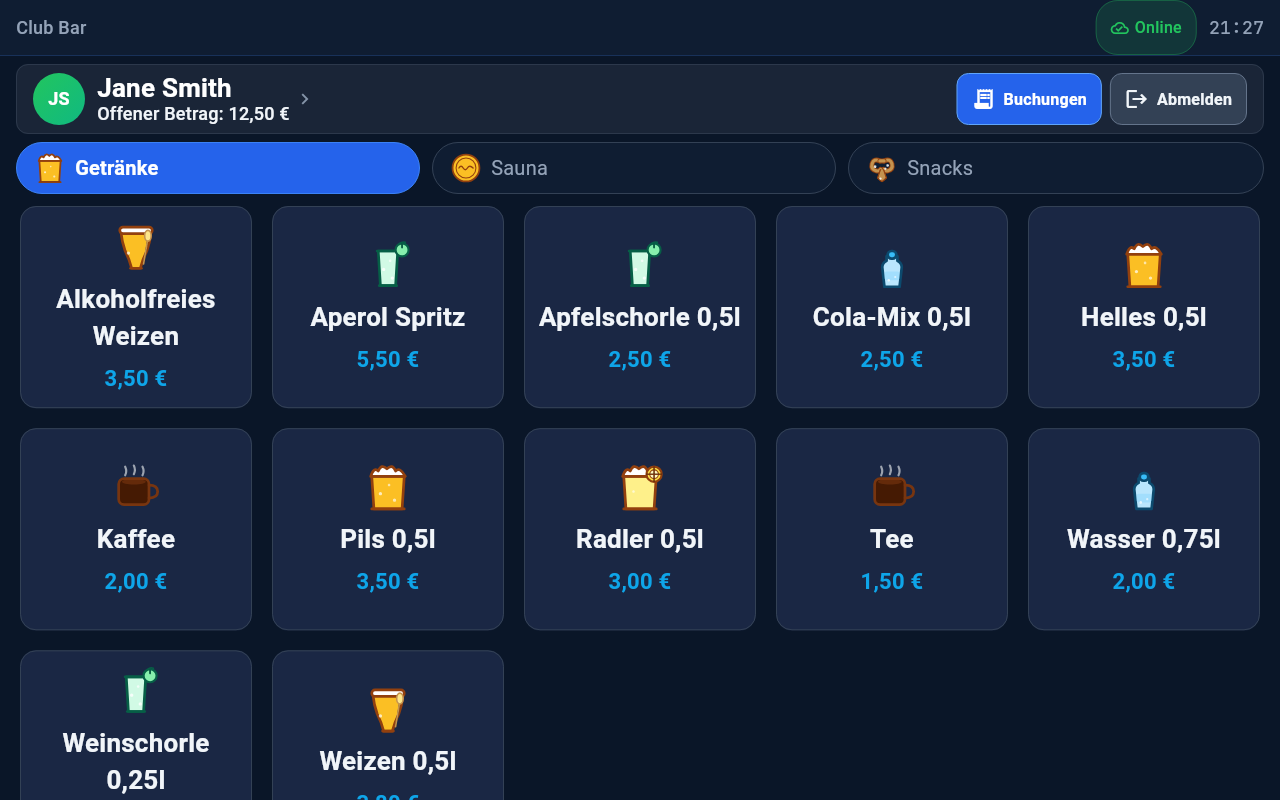
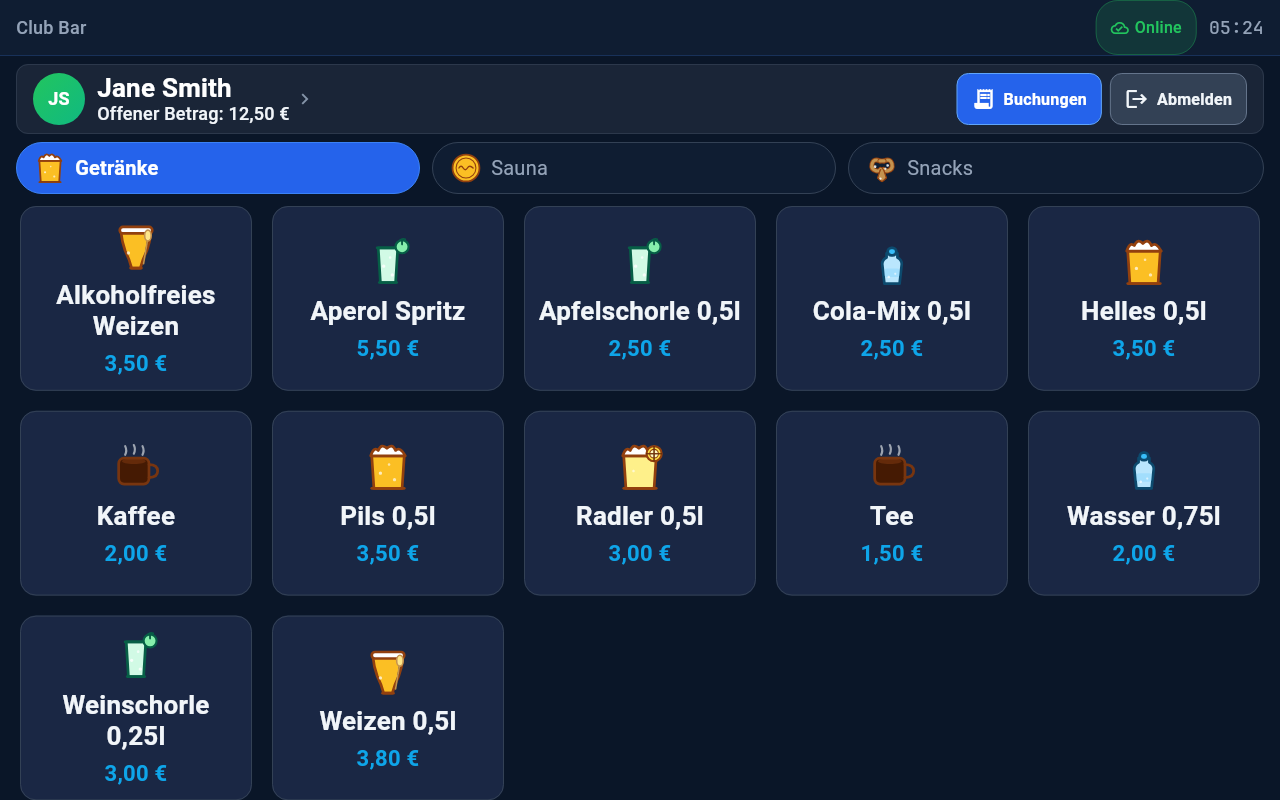
Terminal: hold two product rows at the scale a production terminal runs
The production terminal runs a larger type scale than the shipped default
(xs 20, sm 23, base 21, lg 23, xl 25, xxl 27, xxxl 31). Rendered at that
scale, the redesign kept the name and product names loud, but the second
product row sat cut off behind the summary bar whenever the credit-limit
banner was up — as it already did on main at this scale.

The tile's text block was sized at Roboto's own ~1.34 line height, with a
measured chrome figure carrying ~7 px of slack. At xxxl 31 that is 27 px per
two rows the grid cannot spare.

- ProductCard pins the line height of name and price to 1.2
  (`textLineHeight`), ordinary leading for a bold two-line headline.
- ProductSelectionScreen sizes the tile from exactly that, and its chrome
  is now the sum of the parts (Card margin, padding, icon, gaps = 100)
  rather than a measured figure — the relationship no longer has to be
  re-measured when a font changes.
- A #369-style test holds two whole rows with the banner up at the
  terminal's scale. The product screen tests load Roboto for that: the
  placeholder test font draws every glyph one em wide, which wrapped the
  banner onto three lines and failed a layout the panel shows whole.
- The screenshot harness renders both scales; the terminal-scale frames
  are `tool/screenshots/out/11-` to `14-`.

Verified: flutter test 1092 passed; flutter analyze no new issues;
screenshot harness 4/4.

Claude-Session: https://claude.ai/code/session_01DRc3HEnvitWHs1tWUNM7Gq

diff --git a/terminal-frontend/tool/screenshots/product_screen_screenshot_test.dart b/terminal-frontend/tool/screenshots/product_screen_screenshot_test.dart
@@ -29,6 +29,7 @@ import 'package:clubbar_terminal/repository/products_repository.dart';
 import 'package:clubbar_terminal/screens/idle_waiting_screen.dart';
 import 'package:clubbar_terminal/screens/product_selection_screen.dart';
 import 'package:clubbar_terminal/screens/shopping_cart_screen.dart';
+import 'package:clubbar_terminal/utils/design_tokens.dart';
 
 import '../../integration_test/test_helpers.dart';
 
@@ -241,38 +242,76 @@ void main() {
     await tester.pumpWidget(const SizedBox.shrink());
   }
 
-  testWidgets('product selection', (tester) async {
-    await boot(tester);
+  /// One pass through both scenarios at a given type scale.
+  ///
+  /// [prefix] keys the output files; [scale] is a `fontSizes` map as a club
+  /// would write it in config.json, or null for the shipped defaults.
+  void scenarios(String prefix, Map<String, double>? scale) {
+    Future<void> useScale(WidgetTester tester) async {
+      if (scale == null) return;
+      final shipped = {
+        'xs': AppFontSizes.xs,
+        'sm': AppFontSizes.sm,
+        'base': AppFontSizes.base,
+        'lg': AppFontSizes.lg,
+        'xl': AppFontSizes.xl,
+        'xxl': AppFontSizes.xxl,
+        'xxxl': AppFontSizes.xxxl,
+      };
+      addTearDown(() => AppFontSizes.applyConfig(shipped));
+      AppFontSizes.applyConfig(scale);
+    }
 
-    // 1. Fresh session, nothing in the cart yet.
-    final rfid = await scan(tester, 'card-jane');
-    await shoot(tester, '01-product-grid');
+    testWidgets('$prefix product selection', (tester) async {
+      await useScale(tester);
+      await boot(tester);
 
-    // 2. Two tiles tapped: quantity badges and the summary bar.
-    await tap(tester, 'Pils 0,5l');
-    await tap(tester, 'Pils 0,5l');
-    await tap(tester, 'Alkoholfreies Weizen');
-    await shoot(tester, '02-product-grid-with-cart');
+      // 1. Fresh session, nothing in the cart yet.
+      final rfid = await scan(tester, 'card-jane');
+      await shoot(tester, '${prefix}1-product-grid');
 
-    // 3. The cart screen, with the member bar's back button.
-    await tester.tap(find.byKey(const Key('view-cart-button')));
-    await _pumpFrames(tester, count: 20);
-    expect(find.byType(ShoppingCartScreen), findsOneWidget);
-    await shoot(tester, '03-cart');
+      // 2. Two tiles tapped: quantity badges and the summary bar.
+      await tap(tester, 'Pils 0,5l');
+      await tap(tester, 'Pils 0,5l');
+      await tap(tester, 'Alkoholfreies Weizen');
+      await shoot(tester, '${prefix}2-product-grid-with-cart');
 
-    await endSession(tester, rfid);
-  });
+      // 3. The cart screen, with the member bar's back button.
+      await tester.tap(find.byKey(const Key('view-cart-button')));
+      await _pumpFrames(tester, count: 20);
+      expect(find.byType(ShoppingCartScreen), findsOneWidget);
+      await shoot(tester, '${prefix}3-cart');
 
-  testWidgets('long name and credit-limit banner', (tester) async {
-    await boot(tester);
+      await endSession(tester, rfid);
+    });
 
-    // Worst case for the band above the grid: the longest name a member is
-    // likely to have, a tab inside the warning band, and an item in the
-    // cart — the layout #369 measured.
-    final rfid = await scan(tester, 'card-max');
-    await tap(tester, 'Pils 0,5l');
-    await shoot(tester, '04-long-name-with-banner');
+    testWidgets('$prefix long name and credit-limit banner', (tester) async {
+      await useScale(tester);
+      await boot(tester);
 
-    await endSession(tester, rfid);
+      // Worst case for the band above the grid: the longest name a member is
+      // likely to have, a tab inside the warning band, and an item in the
+      // cart — the layout #369 measured.
+      final rfid = await scan(tester, 'card-max');
+      await tap(tester, 'Pils 0,5l');
+      await shoot(tester, '${prefix}4-long-name-with-banner');
+
+      await endSession(tester, rfid);
+    });
+  }
+
+  // The shipped defaults (INSTALL.md § Configuration reference).
+  scenarios('0', null);
+
+  // The scale a production terminal actually runs — larger than the
+  // defaults at every step, and the one the floor's feedback was about.
+  scenarios('1', const {
+    'xs': 20.0,
+    'sm': 23.0,
+    'base': 21.0,
+    'lg': 23.0,
+    'xl': 25.0,
+    'xxl': 27.0,
+    'xxxl': 31.0,
   });
 }

diff --git a/terminal-frontend/test/screens/product_selection_screen_test.dart b/terminal-frontend/test/screens/product_selection_screen_test.dart
@@ -41,6 +41,10 @@ class FakeBuildContext extends Fake implements BuildContext {}
 class FakeMembersCacheData extends Fake implements MembersCacheData {}
 
 void main() {
+  // The grid sizing groups below are about fit, so they must measure with
+  // the font the panel draws — see loadRealFonts.
+  setUpAll(loadRealFonts);
+
   setUpAll(() {
     registerFallbackValue(FakeBuildContext());
     registerFallbackValue(FakeMembersCacheData());
@@ -846,11 +850,10 @@ void main() {
     // actually gets. Modelling it as the surface keeps the test off
     // MainLayout's provider surface without understating the chrome.
     //
-    // Note the test font: flutter_test renders with a 1.0 line-height factor
-    // where production measures ~1.34, so this harness under-reports the
-    // font-driven chrome by a few px. There is ~39 px of real headroom behind
-    // these assertions — do not trim the layout down to what the test font
-    // says fits.
+    // Measured with Roboto (loadRealFonts above), not the test font: the
+    // placeholder font draws every glyph one em wide, which wraps the
+    // credit-limit banner onto three lines and fails a layout the panel
+    // shows whole. With the real font these numbers are the panel's.
     group('two full product rows fit on the kiosk (#369)', () {
       const kioskBody = Size(1280, 744);
 
@@ -995,6 +998,38 @@ void main() {
         expect(find.byKey(const Key('credit-limit-banner')), findsNothing);
         expect(find.byType(CartSummaryBar), findsOneWidget);
 
+        final gridBottom =
+            tester.getBottomLeft(find.byType(GridView)).dy;
+        expect(secondRowBottom(tester), lessThanOrEqualTo(gridBottom));
+        expect(tester.takeException(), isNull);
+      });
+
+      // The scale a production terminal actually runs — every step larger
+      // than the shipped default, `xxxl` at 31. Two rows never fit here with
+      // the banner up, before or after the name went to `xxxl`: the tile's
+      // text block was sized at the font's own ~1.34 line height, and at 31
+      // px that is 27 px per tile the row could not spare. The card now pins
+      // its line height, and this holds the floor at the scale that matters.
+      testWidgets('and at the scale a production terminal runs',
+          (WidgetTester tester) async {
+        final shipped = {
+          'xs': AppFontSizes.xs,
+          'sm': AppFontSizes.sm,
+          'base': AppFontSizes.base,
+          'lg': AppFontSizes.lg,
+          'xl': AppFontSizes.xl,
+          'xxl': AppFontSizes.xxl,
+          'xxxl': AppFontSizes.xxxl,
+        };
+        addTearDown(() => AppFontSizes.applyConfig(shipped));
+        AppFontSizes.applyConfig({
+          'xs': 20.0, 'sm': 23.0, 'base': 21.0,
+          'lg': 23.0, 'xl': 25.0, 'xxl': 27.0, 'xxxl': 31.0,
+        });
+
+        await pumpKiosk(tester, deckelCents: 8200);
+
+        expect(find.byKey(const Key('credit-limit-banner')), findsOneWidget);
         final gridBottom =
             tester.getBottomLeft(find.byType(GridView)).dy;
         expect(secondRowBottom(tester), lessThanOrEqualTo(gridBottom));

diff --git a/terminal-frontend/lib/screens/product_selection_screen.dart b/terminal-frontend/lib/screens/product_selection_screen.dart
@@ -73,26 +73,27 @@ class _ProductSelectionScreenState extends State<ProductSelectionScreen> {
   // card 225 px and every tile overflowed by 7. A club dialling the scale up
   // further would have hit the same wall.
   //
-  // [_tileTextLineHeight] is the font's line box as a multiple of its size,
-  // measured from the rendered card; [_tileChrome] is everything that does not
-  // scale with type (icon, gaps, padding, card border). See the grid sizing
-  // tests in `test/screens/product_selection_screen_test.dart`, which pin the
-  // relationship at three different scales.
+  // [_tileChrome] is everything that does not scale with type: the Card's
+  // default margin (2 x 4), the card's padding (2 x md), the icon and the two
+  // gaps under icon and name (sm each) — 8 + 24 + 52 + 8 + 8 = 100, exactly;
+  // [_tileSlack] is the only headroom over it. See the grid sizing tests in
+  // `test/screens/product_selection_screen_test.dart`, which pin the
+  // relationship at four different scales.
   //
-  // 143 -> 119 with #369, which took 24 px off ProductCard (icon 72 -> 60,
-  // padding lg -> md, the gap under the icon lg -> md). 119 -> 107 when the
-  // name went up to `xxxl` and the icon paid for it (60 -> 52, the gap under
-  // it md -> sm). Move this by exactly what the card moved and no more: the
-  // constant carries ~7 px of *measured* slack over the card's nominal
-  // height, and re-deriving it from first principles would spend the slack
-  // that #41 put there.
-  static const double _tileChrome = 107.0;
-  static const double _tileTextLineHeight = 1.34;
+  // The text block is exact rather than measured: ProductCard pins the line
+  // height of name and price to [ProductCard.textLineHeight], so two lines
+  // of name plus one of price occupy precisely that multiple of their sizes.
+  // Before that this carried a font-measured 1.34 and a chrome figure with
+  // ~7 px of slack folded in (143 -> 119 with #369, 119 -> 107 when the
+  // icon paid for the larger name) — which was fine at the shipped scale and
+  // 27 px too tall at the scale a production terminal runs, where the second
+  // row sat cut off behind the summary bar whenever the banner was up.
+  static const double _tileChrome = 100.0;
   static const double _tileSlack = 4.0;
 
   static double get _tileHeight =>
       _tileChrome +
-      _tileTextLineHeight *
+      ProductCard.textLineHeight *
           (2 * ProductCard.nameFontSize + AppFontSizes.xxl) +
       _tileSlack;
   static const double _gridSpacing = 12.0;

diff --git a/terminal-frontend/test/test_helpers.dart b/terminal-frontend/test/test_helpers.dart
@@ -1,4 +1,7 @@
+import 'dart:io';
+
 import 'package:flutter/material.dart';
+import 'package:flutter/services.dart';
 import 'package:flutter_localizations/flutter_localizations.dart';
 import 'package:mocktail/mocktail.dart';
 import 'package:provider/provider.dart';
@@ -82,4 +85,45 @@ Widget createTestApp({
       child: child,
     ),
   );
+}
+
+/// Load Roboto and the Material icon font from the Flutter SDK's cache, so a
+/// test measures text the way the terminal renders it.
+///
+/// `flutter test` ships a placeholder font that draws every glyph one em
+/// wide and one em tall. That is fine for "is the text there", and wrong for
+/// any test about *how much room* text takes: at 21 px the credit-limit
+/// banner's amounts line is ~1260 px wide in that font and ~700 in Roboto,
+/// so a layout budget measured with it wraps a one-line banner onto three
+/// and fails a layout the panel shows whole. Call from `setUpAll` in a file
+/// whose assertions are about fit.
+///
+/// The fonts live under `bin/cache/artifacts/material_fonts`, a universal
+/// artifact every `flutter` command fetches; the path is resolved from
+/// `FLUTTER_ROOT`, which `flutter test` sets. Missing files fail loudly
+/// rather than silently measuring with the wrong font.
+Future<void> loadRealFonts() async {
+  final root = Platform.environment['FLUTTER_ROOT'];
+  if (root == null) {
+    throw StateError('FLUTTER_ROOT is unset — run this through `flutter test`.');
+  }
+  final fonts = '$root/bin/cache/artifacts/material_fonts';
+
+  Future<ByteData> read(String path) async {
+    final file = File(path);
+    if (!file.existsSync()) {
+      throw StateError('$path is missing — the Flutter cache is incomplete.');
+    }
+    return ByteData.view(Uint8List.fromList(await file.readAsBytes()).buffer);
+  }
+
+  final roboto = FontLoader('Roboto')
+    ..addFont(read('$fonts/Roboto-Regular.ttf'))
+    ..addFont(read('$fonts/Roboto-Medium.ttf'))
+    ..addFont(read('$fonts/Roboto-Bold.ttf'));
+  await roboto.load();
+
+  final icons = FontLoader('MaterialIcons')
+    ..addFont(read('$fonts/MaterialIcons-Regular.otf'));
+  await icons.load();
 }

diff --git a/terminal-frontend/lib/widgets/styled_components/product_card.dart b/terminal-frontend/lib/widgets/styled_components/product_card.dart
@@ -38,6 +38,19 @@ class ProductCard extends StatefulWidget {
   /// `ProductSelectionScreen._tileChrome` by the same amount.
   static const double iconSize = 52.0;
 
+  /// Line height of the name and the price, as a multiple of the font size.
+  ///
+  /// Pinned rather than left to the font, for the same reason the member bar
+  /// pins its own: Roboto's natural line box is ~1.34 em, and at the scale a
+  /// production terminal runs (`xxxl` 31) that is 12 px per tile the grid
+  /// could not spare — the second row sat cut off behind the summary bar
+  /// whenever the credit-limit banner was up. 1.2 is ordinary leading for a
+  /// bold two-line headline, and it makes the tile's text block *exactly*
+  /// `textLineHeight * (2 * name + price)`, which is what
+  /// `ProductSelectionScreen` sizes the tile from — no longer a measured
+  /// figure that has to be re-measured when a font changes.
+  static const double textLineHeight = 1.2;
+
   const ProductCard({
     super.key,
     required this.product,
@@ -152,6 +165,7 @@ class _ProductCardState extends State<ProductCard>
                           color: AppColors.textPrimary,
                           fontSize: ProductCard.nameFontSize,
                           fontWeight: FontWeight.w700,
+                          height: ProductCard.textLineHeight,
                         ),
                       ),
                       const SizedBox(height: AppSpacing.sm),
@@ -164,6 +178,7 @@ class _ProductCardState extends State<ProductCard>
                           color: AppColors.semanticInfo,
                           fontSize: AppFontSizes.xxl,
                           fontWeight: FontWeight.bold,
+                          height: ProductCard.textLineHeight,
                         ),
                       ),
                     ],

diff --git a/terminal-frontend/docs/font-sizes.md b/terminal-frontend/docs/font-sizes.md
@@ -40,8 +40,17 @@ header) and product names as *too small* (`xl`, under a price at `xxl`).
 | Cart line — product name | `lg` 600 | `xxl` 700 | Same reading order as the tile; the cart list scrolls, so height is not at a premium there |
 
 Rendered at the kiosk's own 1280x800: `tool/screenshots/out/01-product-grid.png`
-through `04-long-name-with-banner.png`, regenerated with
+through `04-long-name-with-banner.png` at the shipped scale, and `11-` through
+`14-` at the scale a production terminal runs (`xxxl` 31), regenerated with
 `flutter test tool/screenshots/product_screen_screenshot_test.dart --update-goldens`.
+
+Both `xxxl` strings carry a pinned line height: the product card sets 1.2 on
+its name and price (`ProductCard.textLineHeight`), and the tile height is
+computed from exactly that — Roboto's own ~1.34 was 27 px per two rows the
+grid could not spare at the scale a production terminal runs (`xxxl` 31),
+where the second row sat cut off behind the summary bar whenever the
+credit-limit banner was up. That scale is now one of the four the grid
+sizing tests pin, and one of the two the screenshot harness renders.
 
 The member bar keeps its height: the name and balance lines carry pinned
 line-height factors (1.15 and 1.2) so the column stays at the 52 px button
